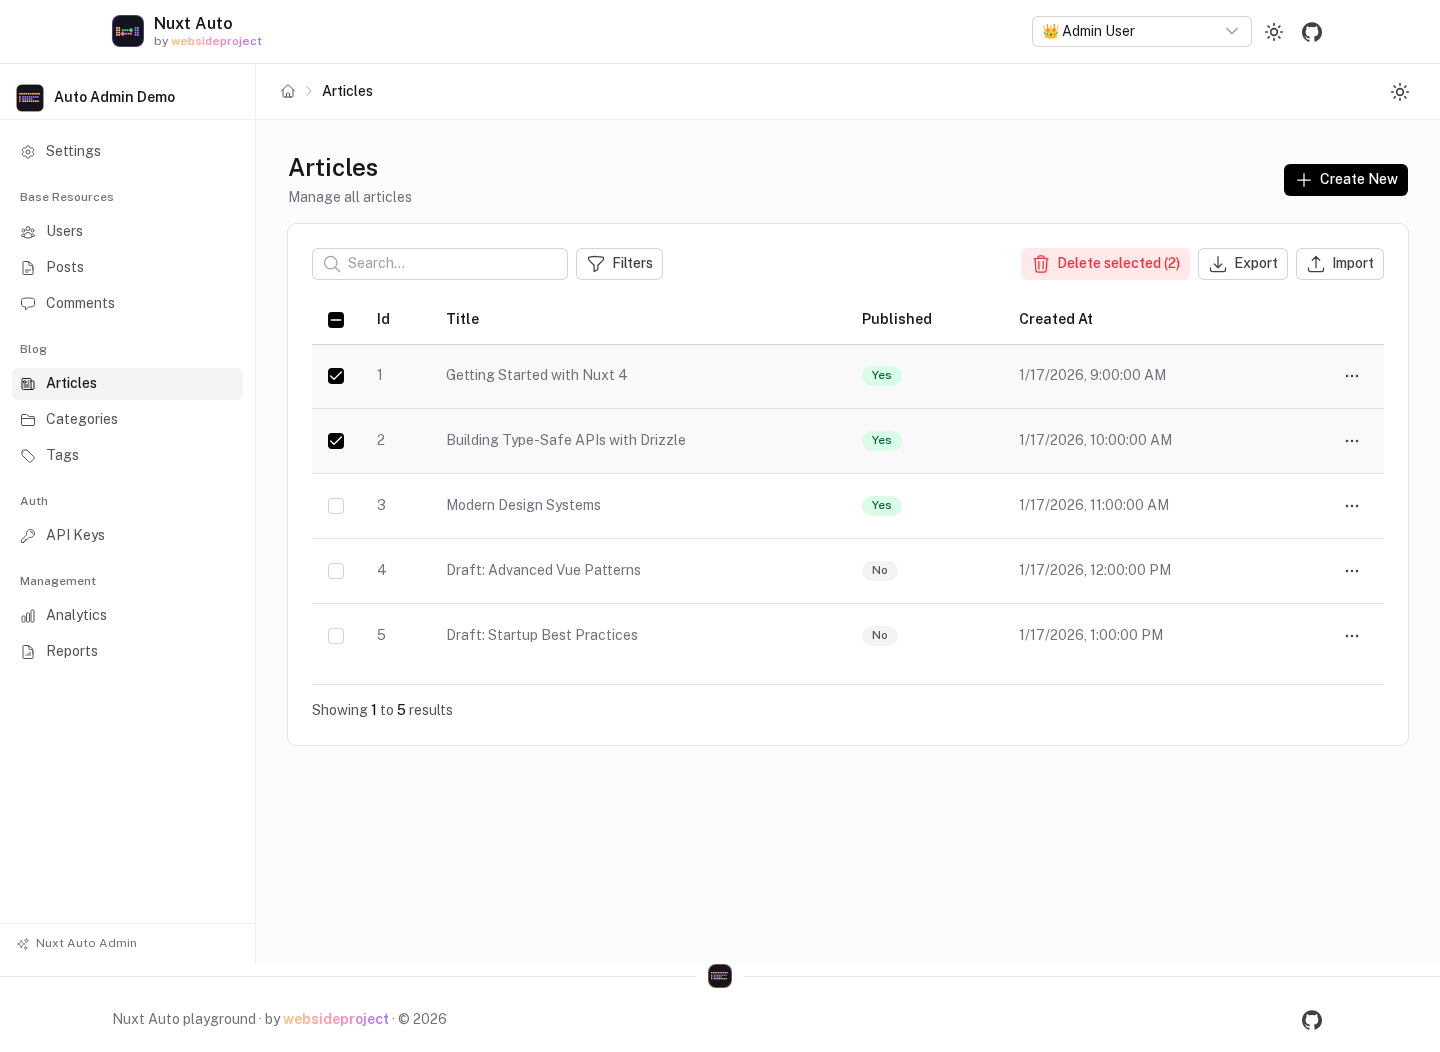
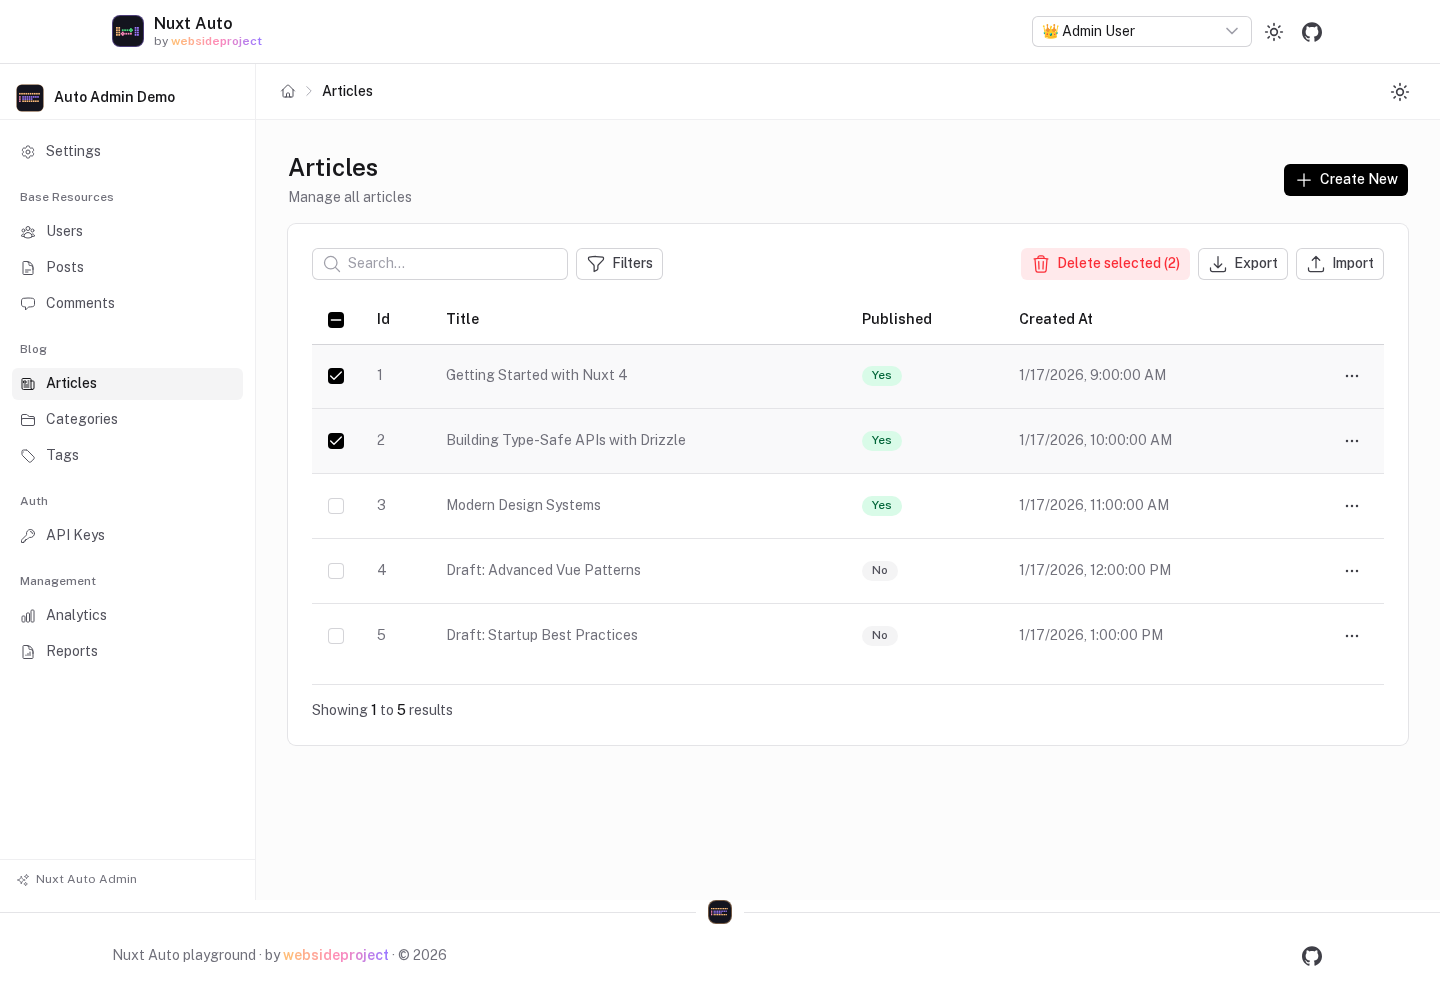
test(visual): baselines for the admin that fits under the header
The admin shell is now as tall as the space under the playground header, and the demo pages follow the
zinc neutral, so 18 of 28 pictures moved. All 28 are refreshed in the CI container
(`bun run visual:baseline`); the 17 that CI flagged are byte-identical to CI's own renders.

The admin scrolls inside its shell, so a full-page picture of a long admin page now stops at the fold:
the edit page lost its Categories and Tags cards. A shot can ask for a taller viewport (`height`), and
admin-edit takes 1340px, enough for the whole form.

diff --git a/apps/playground/test/visual.spec.ts b/apps/playground/test/visual.spec.ts
@@ -45,6 +45,11 @@ interface Shot {
   crop?: (page: Page) => Locator
   /** A full-page picture unless false. An open dialog or menu is photographed at the viewport it floats in. */
   fullPage?: boolean
+  /**
+   * A taller viewport for this picture. The admin scrolls inside its own shell, which is as tall as the viewport, so
+   * a full-page picture of a long admin page stops at the fold; give it the height its content needs.
+   */
+  height?: number
 }
 
 /** The card (UCard) holding a heading. */
@@ -135,7 +140,7 @@ const ADMIN_SHOTS: Shot[] = [
   },
   { name: 'admin-detail', path: '/admin/articles/1', role: 'admin', says: 'getting-started-nuxt-4' },
   { name: 'admin-create', path: '/admin/articles/new', role: 'admin', says: 'Author Id' },
-  { name: 'admin-edit', path: '/admin/articles/1/edit', role: 'admin', says: 'TypeScript, Nuxt' }
+  { name: 'admin-edit', path: '/admin/articles/1/edit', role: 'admin', says: 'TypeScript, Nuxt', height: 1340 }
 ]
 
 // ─── nuxt-auto-api, through the playground's pages ──────────────────────────────────────────────────────────
@@ -225,6 +230,7 @@ for (const viewport of VIEWPORTS) {
 
       test(image, async ({ page, context, baseURL }) => {
         await context.addCookies([{ name: 'demo-session', value: shot.role, url: baseURL! }])
+        if (shot.height) await page.setViewportSize({ width: viewport.width, height: shot.height })
         await page.clock.setFixedTime(FIXED_NOW)
 
         // A write the server refuses changes nothing; one it accepts would change the pictures that follow
